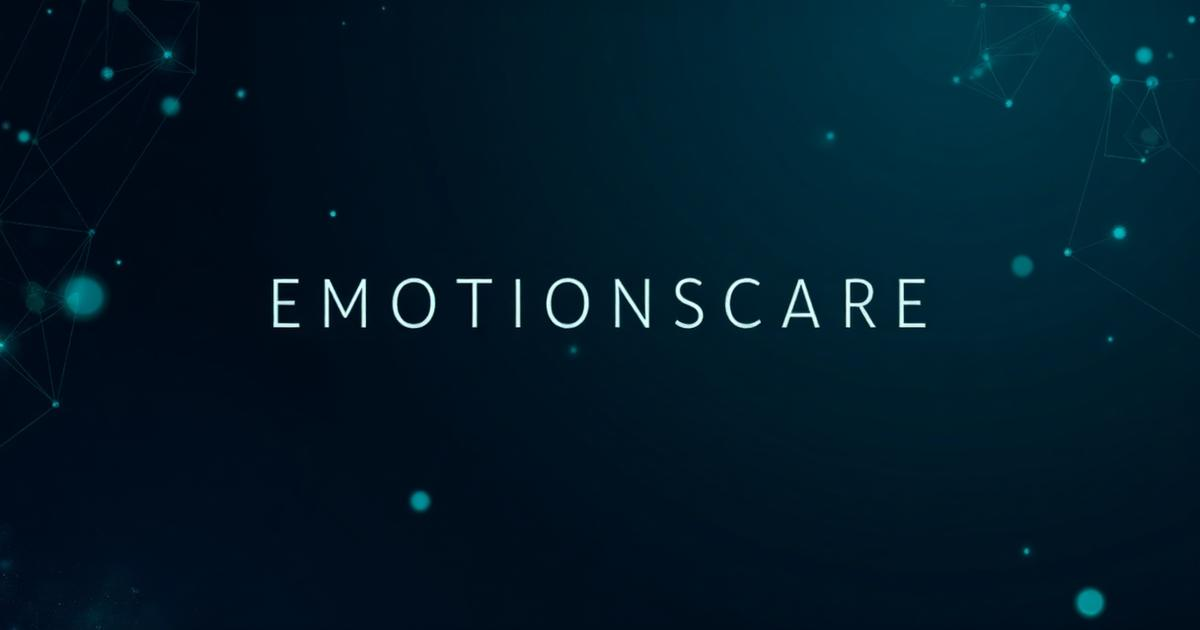
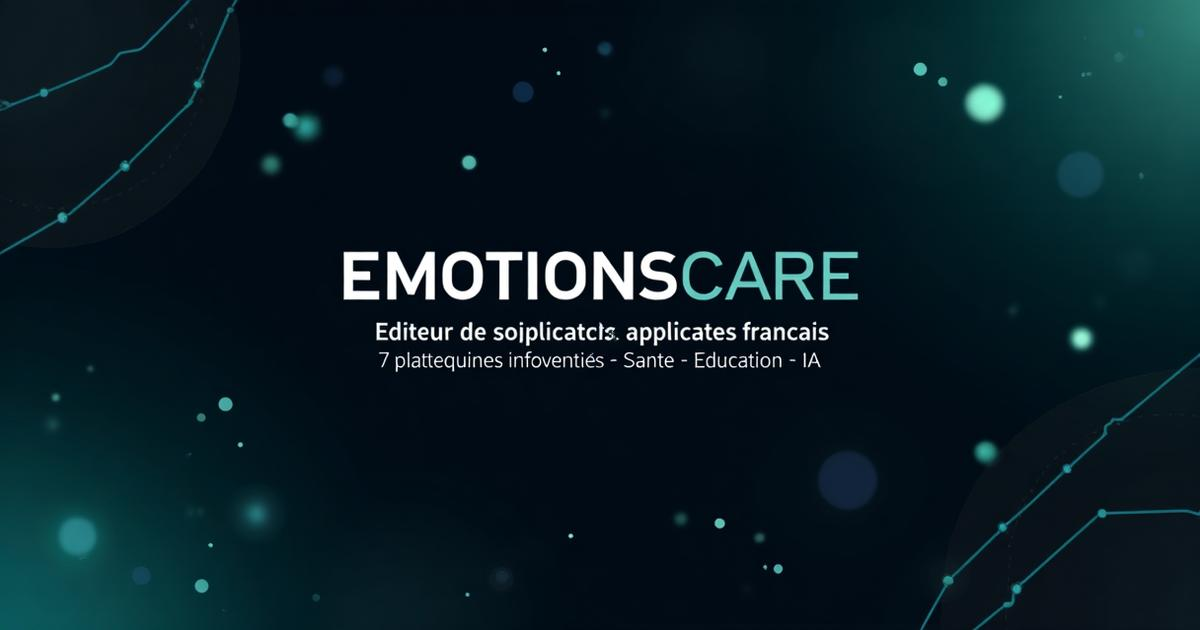
Changes

diff --git a/src/hooks/usePageMeta.ts b/src/hooks/usePageMeta.ts
@@ -5,6 +5,7 @@ const DEFAULT_TITLE = "EMOTIONSCARE — Siège Social Numérique";
 const DEFAULT_DESCRIPTION =
   "Éditeur de logiciels applicatifs français. 7 plateformes innovantes pilotées depuis notre siège numérique.";
 const SITE_URL = "https://president-cockpit-hq.lovable.app";
+const DEFAULT_OG_IMAGE = `${SITE_URL}/og-image.png`;
 
 interface PageMetaOptions {
   title: string;
@@ -15,17 +16,37 @@ interface PageMetaOptions {
   canonicalPath?: string;
   /** JSON-LD structured data schemas for GEO (Generative Engine Optimization) */
   jsonLd?: Record<string, unknown>[];
+  /** Override OG image URL */
+  ogImage?: string;
+}
+
+function setMetaTag(property: string, content: string, isOg = true) {
+  const attr = isOg ? "property" : "name";
+  let el = document.querySelector(`meta[${attr}="${property}"]`) as HTMLMetaElement | null;
+  if (!el) {
+    el = document.createElement("meta");
+    el.setAttribute(attr, property);
+    document.head.appendChild(el);
+  }
+  el.setAttribute("content", content);
 }
 
 /**
  * Centralized hook for page-level SEO meta tags.
- * Sets document title, meta description, canonical link, and robots directive.
+ * Sets document title, meta description, canonical link, robots directive,
+ * and Open Graph / Twitter Card tags per page.
  * Restores defaults on unmount.
  */
-export function usePageMeta({ title, description, noindex, canonicalPath, jsonLd }: PageMetaOptions) {
+export function usePageMeta({ title, description, noindex, canonicalPath, jsonLd, ogImage }: PageMetaOptions) {
   useEffect(() => {
+    const fullTitle = `${title} — ${SITE_NAME}`;
+    const desc = description || DEFAULT_DESCRIPTION;
+    const path = canonicalPath ?? window.location.pathname;
+    const canonicalUrl = `${SITE_URL}${path}`;
+    const image = ogImage || DEFAULT_OG_IMAGE;
+
     // Title
-    document.title = `${title} — ${SITE_NAME}`;
+    document.title = fullTitle;
 
     // Meta description
     const metaDescription = document.querySelector('meta[name="description"]');
@@ -35,13 +56,23 @@ export function usePageMeta({ title, description, noindex, canonicalPath, jsonLd
 
     // Canonical link
     let canonicalLink = document.querySelector('link[rel="canonical"]') as HTMLLinkElement | null;
-    const path = canonicalPath ?? window.location.pathname;
     if (!canonicalLink) {
       canonicalLink = document.createElement("link");
       canonicalLink.setAttribute("rel", "canonical");
       document.head.appendChild(canonicalLink);
     }
-    canonicalLink.setAttribute("href", `${SITE_URL}${path}`);
+    canonicalLink.setAttribute("href", canonicalUrl);
+
+    // OG tags
+    setMetaTag("og:title", fullTitle);
+    setMetaTag("og:description", desc);
+    setMetaTag("og:url", canonicalUrl);
+    setMetaTag("og:image", image);
+
+    // Twitter tags
+    setMetaTag("twitter:title", fullTitle, false);
+    setMetaTag("twitter:description", desc, false);
+    setMetaTag("twitter:image", image, false);
 
     // Robots noindex
     let robotsMeta = document.querySelector('meta[name="robots"]') as HTMLMetaElement | null;
@@ -81,10 +112,18 @@ export function usePageMeta({ title, description, noindex, canonicalPath, jsonLd
       if (noindex && robotsMeta) {
         robotsMeta.remove();
       }
+      // Restore default OG tags
+      setMetaTag("og:title", DEFAULT_TITLE);
+      setMetaTag("og:description", DEFAULT_DESCRIPTION);
+      setMetaTag("og:url", SITE_URL);
+      setMetaTag("og:image", DEFAULT_OG_IMAGE);
+      setMetaTag("twitter:title", DEFAULT_TITLE, false);
+      setMetaTag("twitter:description", DEFAULT_DESCRIPTION, false);
+      setMetaTag("twitter:image", DEFAULT_OG_IMAGE, false);
       // Remove injected JSON-LD scripts
       for (const script of jsonLdScripts) {
         script.remove();
       }
     };
-  }, [title, description, noindex, canonicalPath, jsonLd]);
+  }, [title, description, noindex, canonicalPath, jsonLd, ogImage]);
 }
